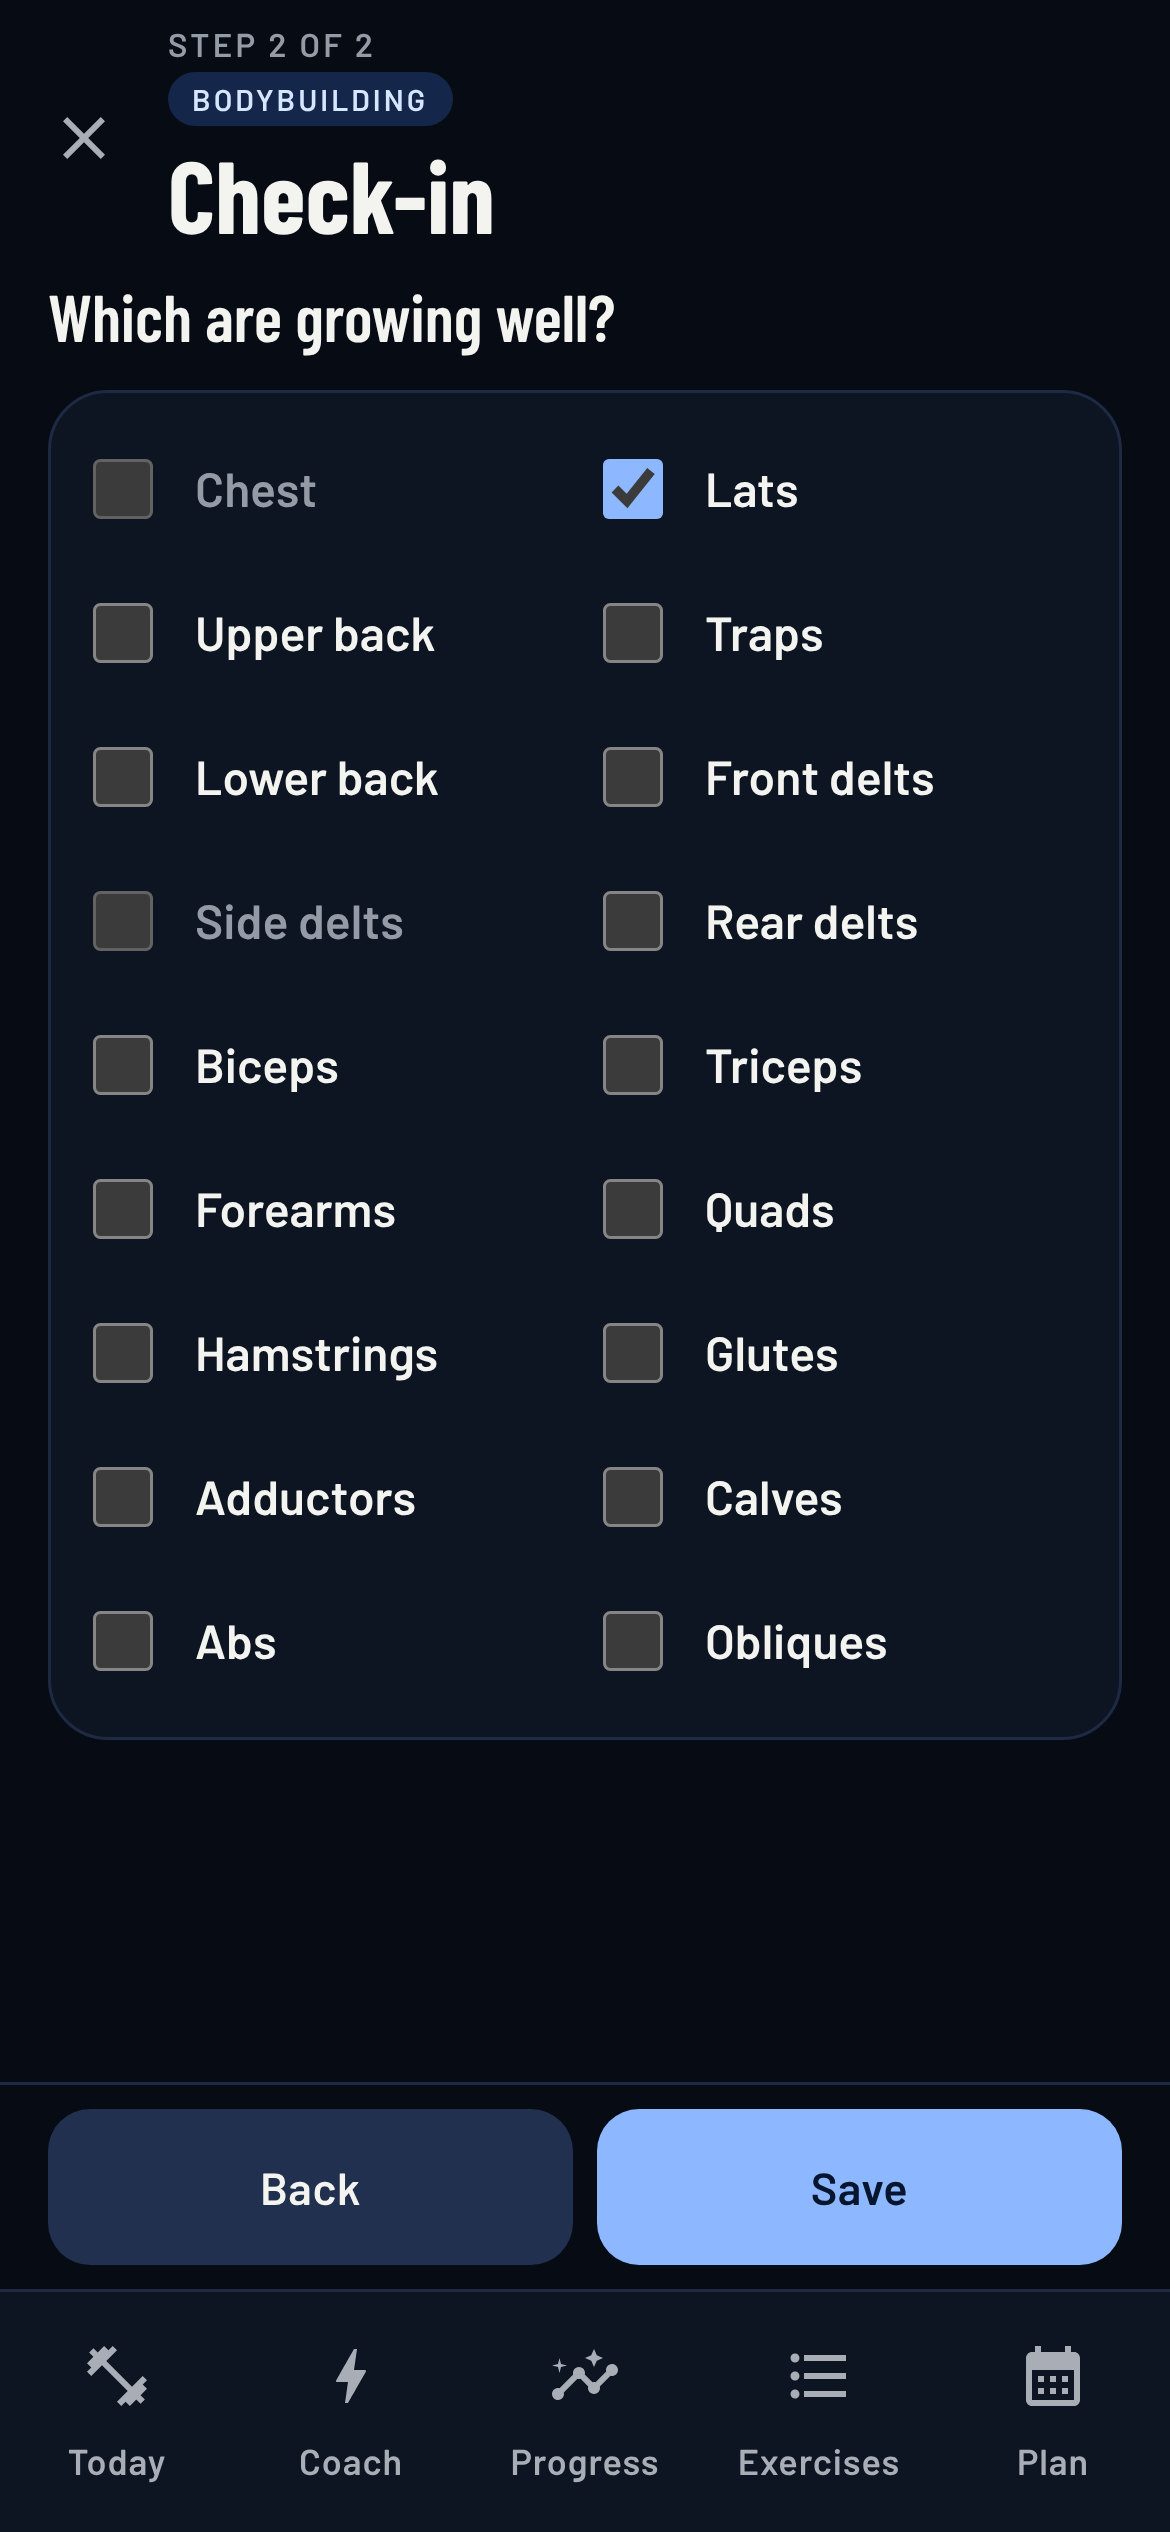
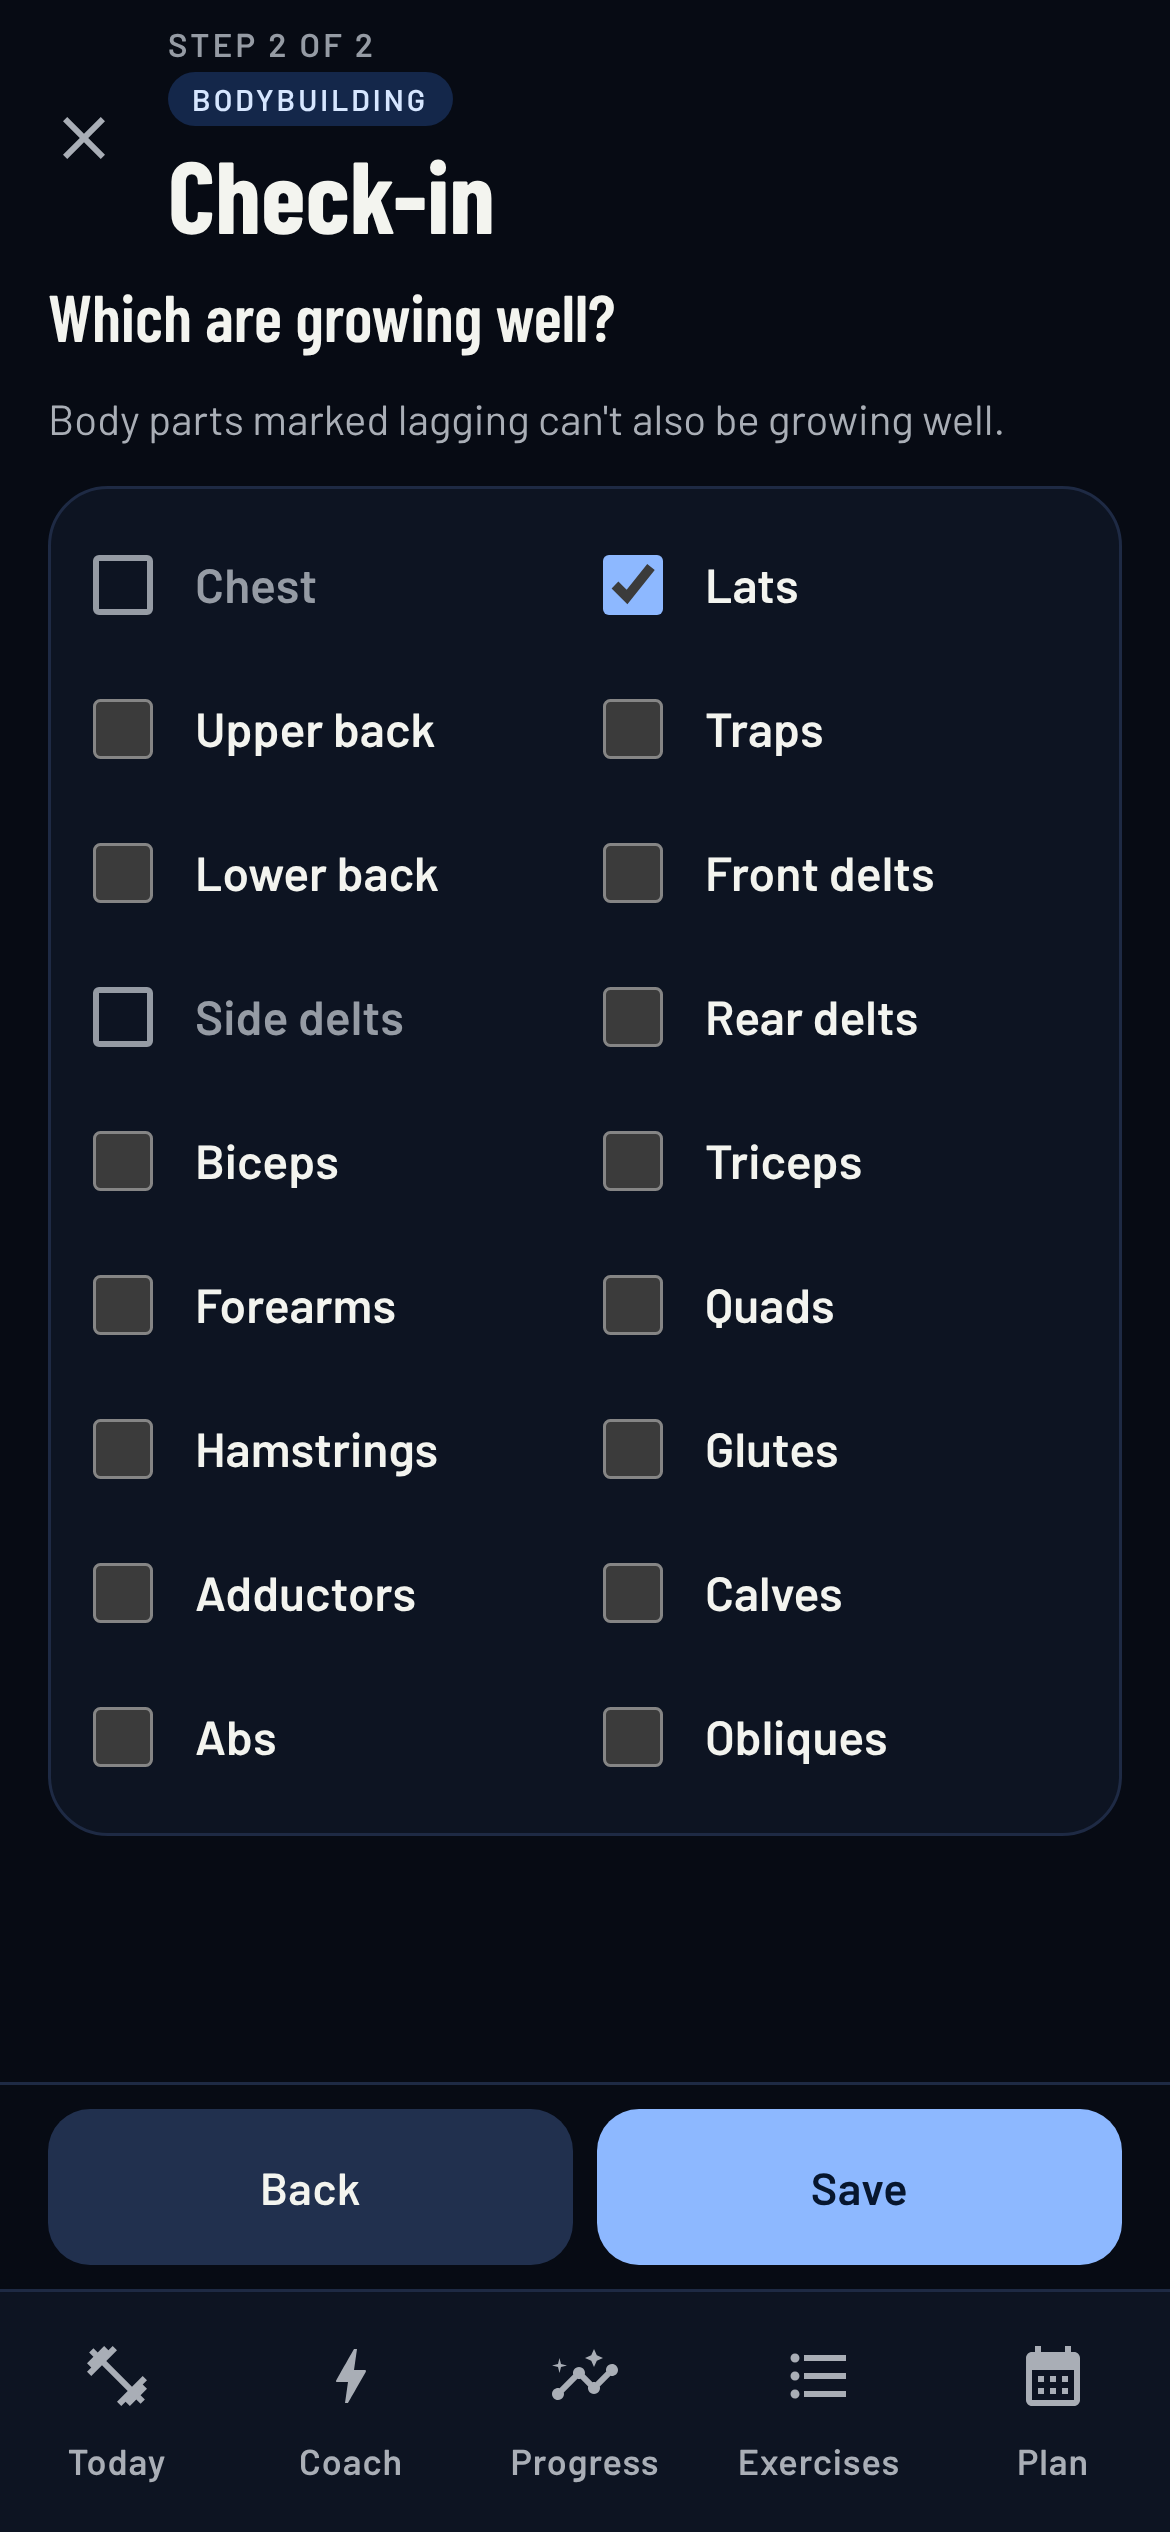
fix(web): check-in rulings: no button on an empty plan, step 2 line, locked tiles, earlier ratings
Progress shows no Check in button on an empty plan and labels earlier
ratings "Earlier: ...". Step 2 says lagging body parts can't also be
growing well; locked tiles are drawn in --text-muted, held to the
contrast tests.

Claude-Session: https://claude.ai/code/session_01KboHw6FdBYrNDSMx1QWyzy

diff --git a/web/src/screens/physique.test.tsx b/web/src/screens/physique.test.tsx
@@ -330,11 +330,11 @@ describe('Progress: body parts', () => {
     const chest = within(parts).getAllByRole('listitem')[0]!
     expect(within(chest).getByRole('heading').textContent).toBe('Chest')
     expect(within(chest).getByText('Growing well')).toBeInTheDocument()
-    expect(within(chest).getByText('Lagging · On track')).toBeInTheDocument()
+    expect(within(chest).getByText('Earlier: Lagging · On track')).toBeInTheDocument()
     // DB press works the front delts too: on track at every check-in.
     const delts = within(parts).getAllByRole('listitem').find((r) => within(r).getByRole('heading').textContent === 'Front delts')!
     expect(within(delts).getByText('On track')).toBeInTheDocument()
-    expect(within(delts).getByText('On track · On track')).toBeInTheDocument()
+    expect(within(delts).getByText('Earlier: On track · On track')).toBeInTheDocument()
     expect(screen.queryByText(/Your first check-in/)).toBeNull()
     expect(checkInToJs({ id: 1, date: TODAY, lagging: [], growingWell: [] }).date).toBe(TODAY)
   })
@@ -354,6 +354,14 @@ describe('Progress: body parts', () => {
     const parts = await screen.findByRole('region', { name: 'Body parts' })
     const biceps = within(parts).getAllByRole('listitem').find((r) => within(r).getByRole('heading').textContent === 'Biceps')!
     expect(within(biceps).getByText('1 set in the last 7 days')).toBeInTheDocument()
+  })
+
+  it('anEmptyPlan_hasNoCheckInButton', async () => {
+    await session(3, [['DB press', 26, 10]])
+    showProgress()
+    expect(await screen.findByText('No exercises in your plan yet')).toBeInTheDocument()
+    expect(screen.queryByRole('button', { name: 'Check in' })).toBeNull()
+    expect(screen.queryByText(/Your first check-in/)).toBeNull()
   })
 
   it('thePowerliftingSide_hasNoneOfIt', async () => {

diff --git a/web/src/screens/progress/BodybuildingProgress.tsx b/web/src/screens/progress/BodybuildingProgress.tsx
@@ -34,7 +34,8 @@ export function BodybuildingProgressContent({ state, onOpenExercise, onCheckIn =
     <section className="screen">
       <ScreenHeader title="Progress" eyebrow="Best set per session" label={<ModeLabel />} />
       <div className="screen-body">
-        {!state.loading && (
+        {/* An empty plan has nothing to check in on (coordinator's ruling, as on Android). */}
+        {!state.loading && state.rows.length > 0 && (
           <div className="bb-check-in">
             <SecondaryButton text="Check in" onClick={onCheckIn} />
             {!state.checkedIn && <p className="bb-check-in-line body-medium">{FIRST_CHECK_IN_LINE}</p>}
@@ -95,7 +96,7 @@ export function goingUpLine(row: Pick<BodyPartRow, 'exercisesUp' | 'exercisesTra
 
 /**
  * One body part: its name and its rating at the latest check-in, the sets done against those planned, how many of its
- * exercises are going up, and its earlier ratings, oldest first. Before the first check-in it has no rating.
+ * exercises are going up, and its earlier ratings, oldest first ("Earlier: Lagging · On track"; left out with none). Before the first check-in it has no rating.
  */
 function BodyPart({ row }: { row: BodyPartRow }) {
   const latest = row.ratings.at(-1)
@@ -109,7 +110,7 @@ function BodyPart({ row }: { row: BodyPartRow }) {
       </div>
       <p className="bb-part-line body-medium">{setsLine(row)}</p>
       {goingUp != null && <p className="bb-part-line body-medium">{goingUp}</p>}
-      {earlier.length > 0 && <p className="bb-part-earlier body-small">{earlier.map((r) => RATING[r.rating].text).join(' · ')}</p>}
+      {earlier.length > 0 && <p className="bb-part-earlier body-small">{`Earlier: ${earlier.map((r) => RATING[r.rating].text).join(' · ')}`}</p>}
     </li>
   )
 }

diff --git a/web/src/ui/tokens.test.ts b/web/src/ui/tokens.test.ts
@@ -271,6 +271,15 @@ describe.each([
       expect(ratio(get('--outline'), get(s))).toBeGreaterThanOrEqual(3)
     })
   }
+  // The check-in's locked tiles (a body part already marked lagging, on step 2) sit on a card (--surface): their name
+  // and their box are drawn in --text-muted, so they read as unavailable and still pass, light mode included.
+  it('the locked check-in tile on --surface: its name at least 4.5:1 and its box at least 3:1', () => {
+    const library = readFileSync(resolve(process.cwd(), 'src/screens/library/library.css'), 'utf8')
+    const rule = (selector: string) => library.slice(library.indexOf(`${selector} {`)).split('}')[0]!
+    expect(rule('.lib-option-disabled')).toContain('color: var(--text-muted)')
+    expect(rule('.lib-option-disabled input')).toContain('border: 2px solid var(--text-muted)')
+    expect(ratio(get('--text-muted'), get('--surface'))).toBeGreaterThanOrEqual(4.5)
+  })
   for (const s of ['--bg', '--surface', '--container']) {
     it(`--chart-press against ${s} is at least 3:1`, () => {
       expect(ratio(get('--chart-press'), get(s))).toBeGreaterThanOrEqual(3)

diff --git a/web/src/screens/checkin/CheckInScreen.tsx b/web/src/screens/checkin/CheckInScreen.tsx
@@ -14,6 +14,7 @@ export const CHECK_IN_TITLE = 'Check-in'
 export const LAGGING_QUESTION = 'Which body parts are lagging?'
 export const LAGGING_LINE = 'Leave a body part unticked if it is on track.'
 export const GROWING_QUESTION = 'Which are growing well?'
+export const GROWING_LINE = "Body parts marked lagging can't also be growing well."
 export const SAVED_TITLE = 'Check-in saved'
 const SAVE_FAILED = 'The check-in could not be saved. Nothing was changed.'
 
@@ -104,6 +105,7 @@ function CheckInContent({ state, actions, onLeave, onSeeCoach, onDone }: Content
       {step === 'growing' && (
         <div className="screen-body ci-body">
           <h2 className="ci-question headline-small">{GROWING_QUESTION}</h2>
+          <p className="ci-hint body-medium">{GROWING_LINE}</p>
           <Card contentPadding={0} className="ci-groups">
             <div role="group" aria-label={GROWING_QUESTION}>
               <MuscleChecklist groups={groups()} ticked={state.growingWell} onToggle={actions.toggleGrowing} disabled={state.lagging} />

diff --git a/web/src/screens/checkin/CheckInScreen.test.tsx b/web/src/screens/checkin/CheckInScreen.test.tsx
@@ -6,7 +6,7 @@ import { updateSettings, type GritDb } from '../../db/db'
 import { grit } from '../../domain'
 import { draftItems } from '../../state/usePlanBuilder'
 import { TODAY, addDays, exerciseNamed, todayFixture } from '../../test/todayFixture'
-import { CheckInScreen, GROWING_QUESTION, LAGGING_LINE, LAGGING_QUESTION, SAVED_TITLE } from './CheckInScreen'
+import { CheckInScreen, GROWING_LINE, GROWING_QUESTION, LAGGING_LINE, LAGGING_QUESTION, SAVED_TITLE } from './CheckInScreen'
 
 /** Bodybuilding mode stage 3 (plan Task 2, "What the lifter sees" 2): the check-in screen. */
 
@@ -79,6 +79,8 @@ describe('the check-in screen', () => {
     show()
     await userEvent.click(await screen.findByRole('checkbox', { name: 'Chest' }))
     await tap('Next')
+    expect(screen.getByText(GROWING_LINE)).toBeInTheDocument()
+    expect(GROWING_LINE).toBe("Body parts marked lagging can't also be growing well.")
     const chest = box('Chest') as HTMLInputElement
     expect(chest).toBeDisabled()
     expect(chest.checked).toBe(false)

diff --git a/web/src/screens/library/library.css b/web/src/screens/library/library.css
@@ -524,8 +524,19 @@
   background: var(--accent);
 }
 
-/* A group shown but not tickable (the check-in's second step: those already marked lagging). */
+/*
+ * A group shown but not tickable (the check-in's second step: those already marked lagging). Name and an empty box in
+ * --text-muted, which the contrast tests hold to 4.5:1 on the card in every palette (tokens.test.ts).
+ */
 .lib-option-disabled {
   color: var(--text-muted);
   cursor: default;
+}
+
+.lib-option-disabled input {
+  appearance: none;
+  box-sizing: border-box;
+  border: 2px solid var(--text-muted);
+  border-radius: 2px;
+  background: transparent;
 }
